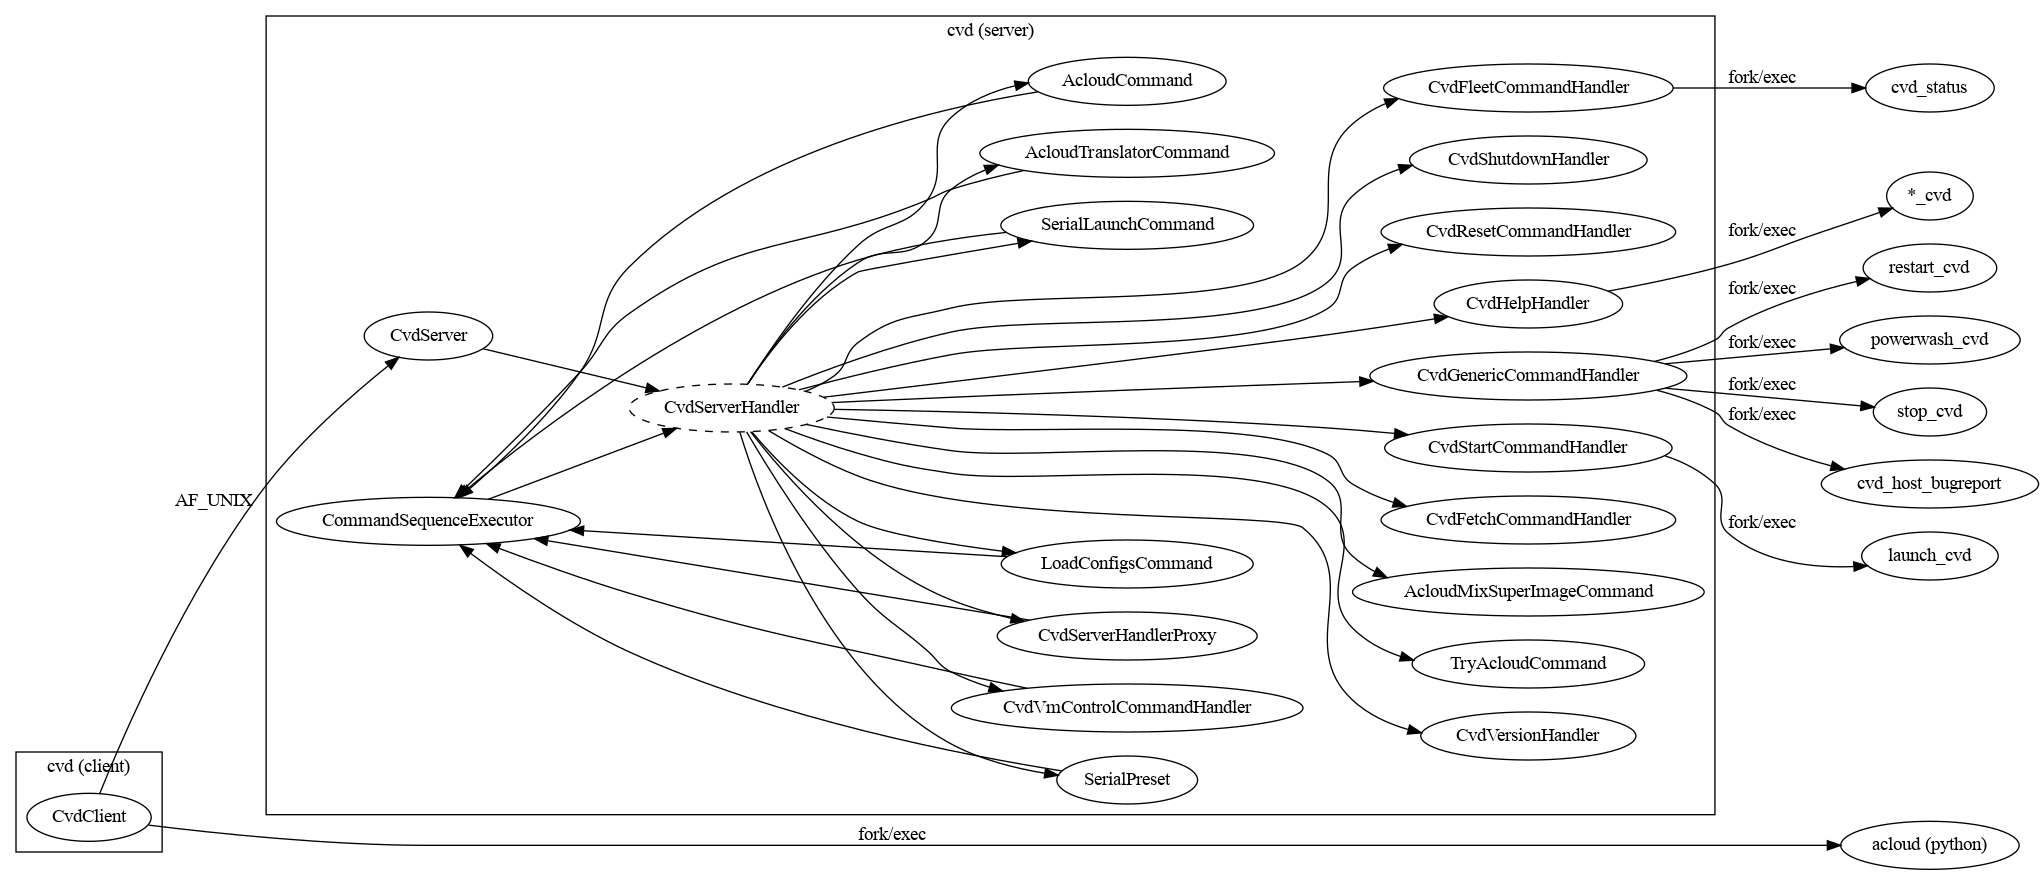
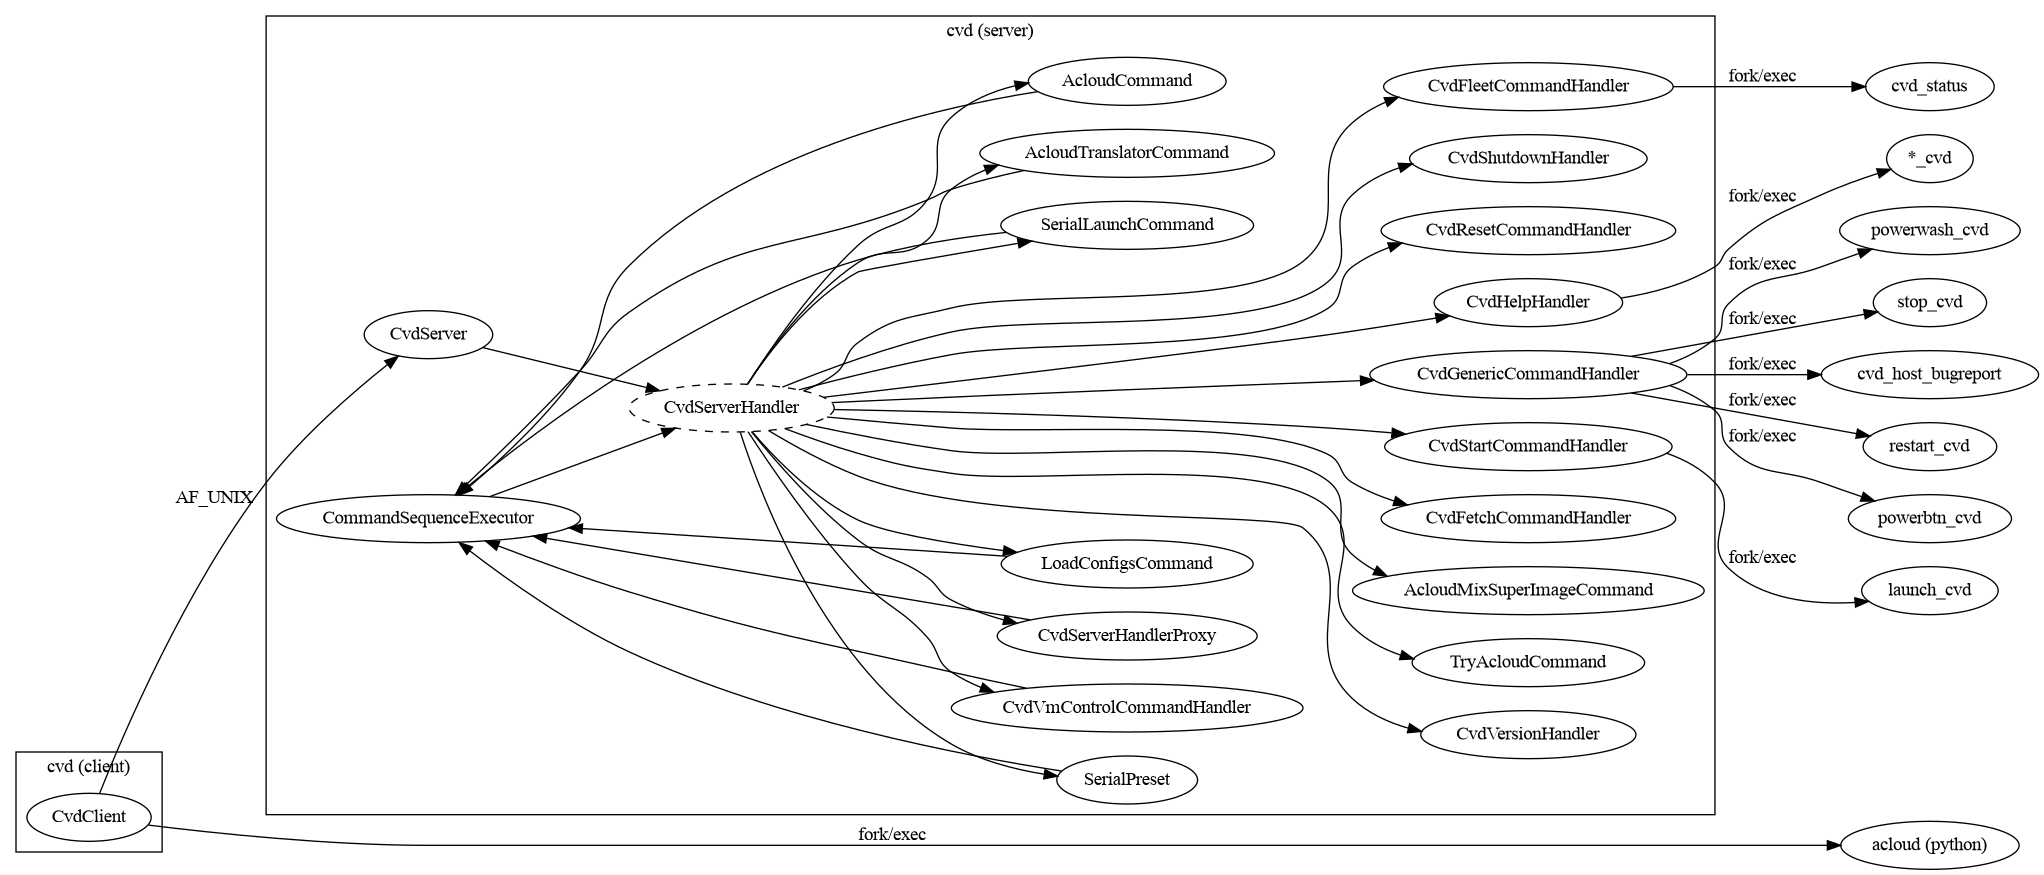
Add powerbtn_cvd command
Triggers a power button event to:
- Wake up an instance when the instance is in S0ix/S3 power mode
- Switch the display mode when the instance is in S0 power mode

Test: Run `cvd powerbtn` to wake up a guest
Bug: 318540621

diff --git a/base/cvd/cuttlefish/host/commands/cvd/server_command/power.cpp b/base/cvd/cuttlefish/host/commands/cvd/server_command/power.cpp
@@ -56,6 +56,10 @@ class CvdDevicePowerCommandHandler : public CvdServerHandler {
         [this](const std::string& android_host_out) -> Result<std::string> {
       return CF_EXPECT(PowerwashBin(android_host_out));
     };
+    cvd_power_operations_["powerbtn"] =
+        [this](const std::string& android_host_out) -> Result<std::string> {
+      return CF_EXPECT(PowerbtnBin(android_host_out));
+    };
   }
 
   Result<bool> CanHandle(const RequestWithStdio& request) const {
@@ -118,6 +122,14 @@ class CvdDevicePowerCommandHandler : public CvdServerHandler {
         .op = "powerwash",
     }));
     return powerwash_bin;
+  }
+
+  Result<std::string> PowerbtnBin(const std::string& android_host_out) const {
+    auto powerbtn_bin = CF_EXPECT(host_tool_target_manager_.ExecBaseName({
+        .artifacts_path = android_host_out,
+        .op = "powerbtn",
+    }));
+    return powerbtn_bin;
   }
 
   Result<Command> HelpCommand(const RequestWithStdio& request,
@@ -207,11 +219,12 @@ class CvdDevicePowerCommandHandler : public CvdServerHandler {
     if (cmd_args.empty()) {
       return false;
     }
-    // cvd restart/powerwash --help, --helpxml, etc or simply cvd restart
+    // cvd restart/powerwash/powerbtn --help, --helpxml, etc or simply cvd
+    // restart
     if (CF_EXPECT(IsHelpSubcmd(cmd_args))) {
       return true;
     }
-    // cvd restart/powerwash help <subcommand> format
+    // cvd restart/powerwash/powerbtn help <subcommand> format
     return (cmd_args.front() == "help");
   }
 

diff --git a/base/cvd/cuttlefish/host/commands/cvd/server_command/host_tool_target.cpp b/base/cvd/cuttlefish/host/commands/cvd/server_command/host_tool_target.cpp
@@ -40,6 +40,7 @@ const std::map<std::string, std::vector<std::string>>& OpToBinsMap() {
       {"cvd_status", {"cvd_internal_status", "cvd_status"}},
       {"restart", {"restart_cvd"}},
       {"powerwash", {"powerwash_cvd"}},
+      {"powerbtn", {"powerbtn_cvd"}},
       {"suspend", {"snapshot_util_cvd"}},
       {"resume", {"snapshot_util_cvd"}},
       {"snapshot_take", {"snapshot_util_cvd"}},

diff --git a/base/cvd/cuttlefish/host/commands/cvd/server_command/power.h b/base/cvd/cuttlefish/host/commands/cvd/server_command/power.h
@@ -25,7 +25,7 @@
 
 namespace cuttlefish {
 
-// restart, powerwash
+// restart, powerwash, powerbtn
 std::unique_ptr<CvdServerHandler> NewCvdDevicePowerCommandHandler(
     HostToolTargetManager& host_tool_target_manager,
     InstanceManager& instance_manager, SubprocessWaiter& subprocess_waiter);
